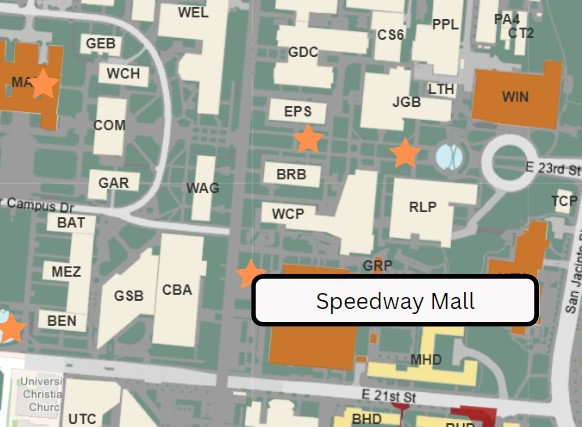
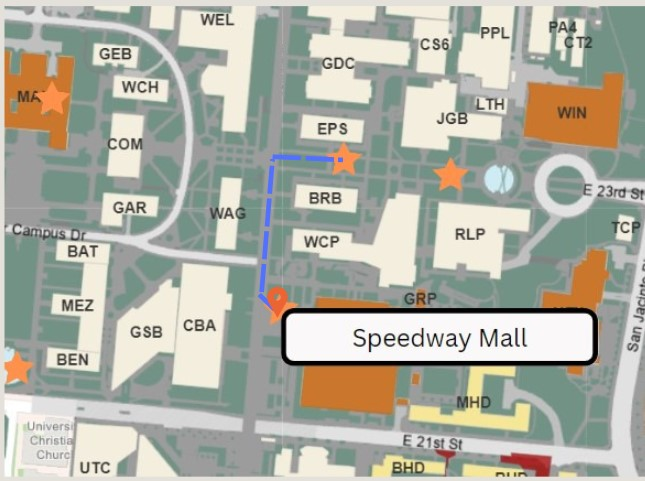
initialcommit

Changed region(s): [[0.0, 0.0, 1.0, 1.0], [0.9588, 0.548, 1.0, 0.7307]]

diff --git a/spdwaymall.html b/spdwaymall.html
@@ -55,7 +55,7 @@
 
 							<!---- Feature -->
 								<section>
-									<a href="https://divinji1.github.io/UDirect1/engineering.html" class="image featured"><img src="images/My project.jpg" alt="" /></a>
+									<a href="https://divinji1.github.io/UDirect1/engineering.html" class="image featured"><img src="images/SpdwyDirect.jpg" alt="" /></a>
 									<header>
 										<h3>Route</h3>
 									</header>
@@ -68,7 +68,7 @@
 								<section>
 									<a href="https://divinji1.github.io/UDirect1/landmark.html" class="image featured"><img src="images/My project2.jpg" alt="" /></a>
 									<header>
-										<h3>Landmarks</h3>
+										<h3>About</h3>
 									</header>
 									<p>Located in the heart of campus, Speedway Mall encourages student community through 
 										its many gathering spots all while providing stress relief in nature.</p>
